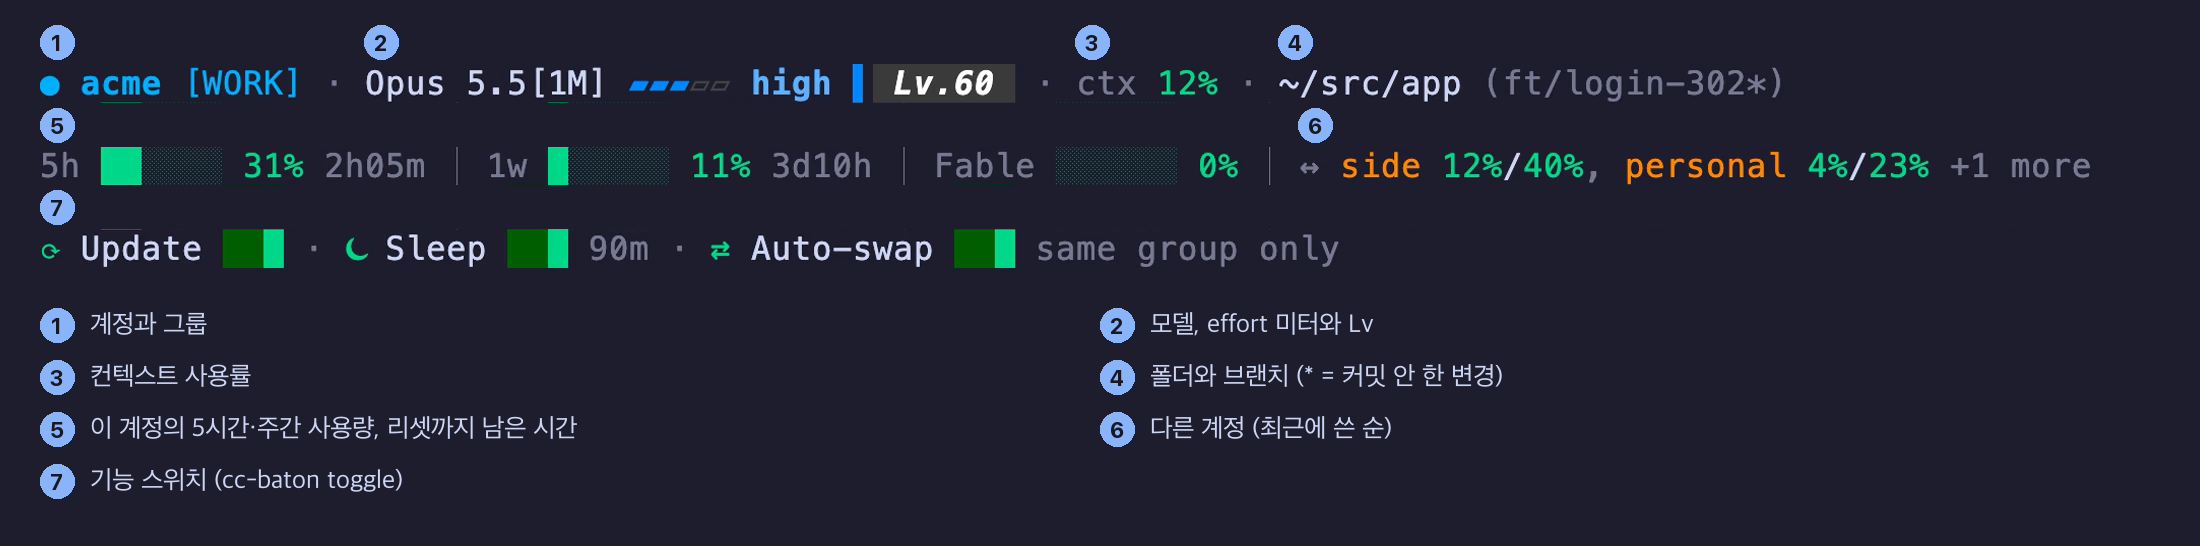
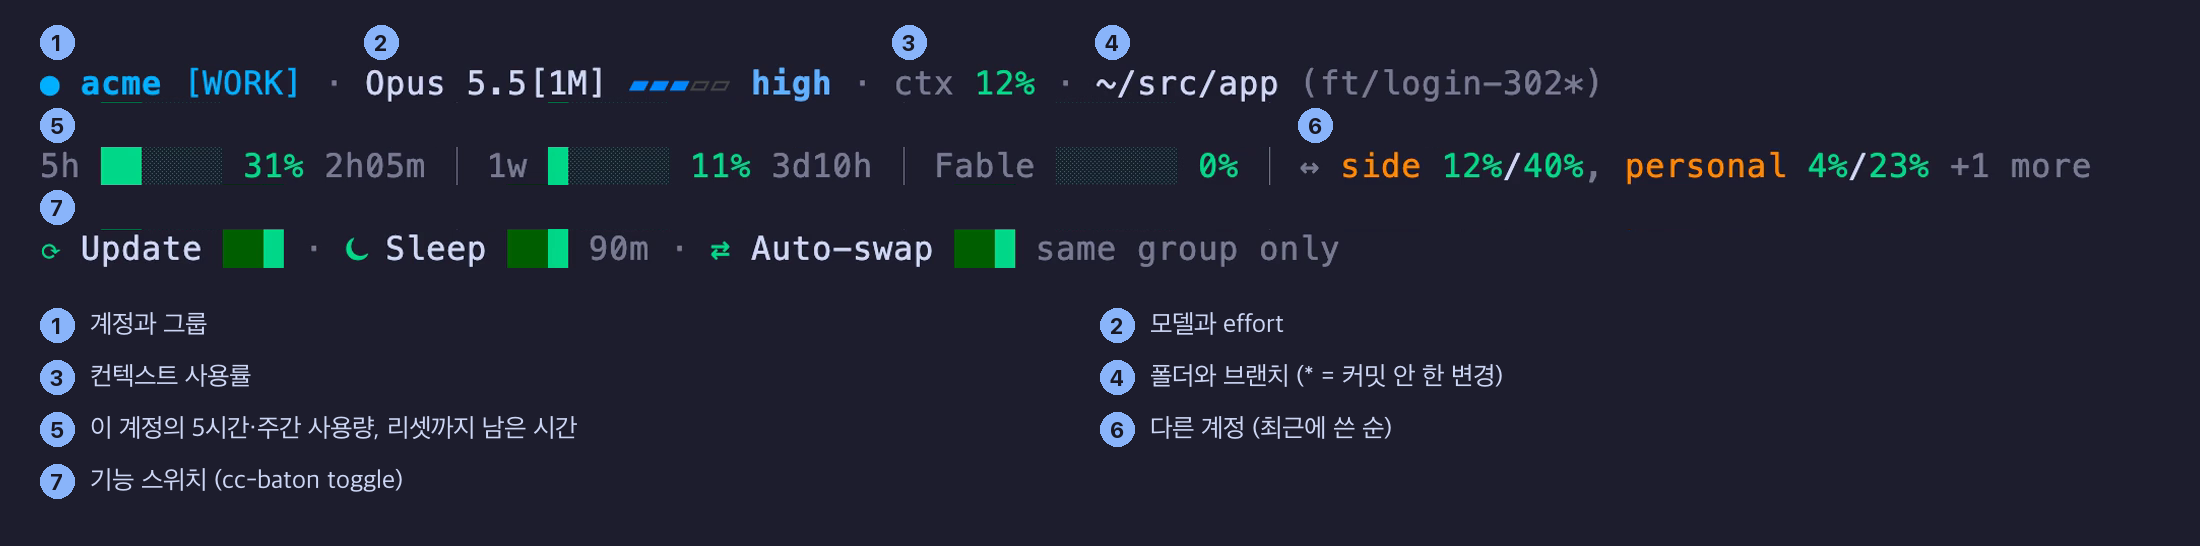
HUD: level chip off by default
The Lv.N chip next to the effort meter is a personal touch, so it only
shows when config.json has "levelChip": true. README images and demo
GIFs are re-recorded without it. Version 0.1.2.

Changed region(s): [[0.3709, 0.0311, 0.8036, 0.1868], [0.5255, 0.5604, 0.6182, 0.6227]]

diff --git a/docs/demo/annotate_hud.py b/docs/demo/annotate_hud.py
@@ -14,14 +14,14 @@ RAW = Image.open(HERE / "hud-raw.png").convert("RGB")
 PAD_X, CHAR = 40, 20.3             # hud.tape: Padding 40, FontSize 32 → 고정폭 글자 한 칸 (실측)
 LINES = [(48, 87), (87, 125), (125, 164)]  # 세 줄의 세로 범위 (2x)
 TEXT = [
-    "● acme [WORK] · Opus 5.5[1M] ▰▰▰▱▱ high ▌ Lv.60  · ctx 12% · ~/src/app (ft/login-302*)",
+    "● acme [WORK] · Opus 5.5[1M] ▰▰▰▱▱ high · ctx 12% · ~/src/app (ft/login-302*)",
     "5h ██░░░░ 31% 2h05m │ 1w █░░░░░ 11% 3d10h │ Fable ░░░░░░ 0% │ ↔ side 12%/40%, personal 4%/23% +1 more",
     "⟳ Update ▮▮▮ · ⏾ Sleep ▮▮▮ 90m · ⇄ Auto-swap ▮▮▮ same group only",
 ]
 # (줄, 그 줄에서 가리킬 글자, 영어, 한국어)
 ITEMS = [
     (0, "●", "Account and group", "계정과 그룹"),
-    (0, "Opus", "Model, effort meter and level", "모델, effort 미터와 Lv"),
+    (0, "Opus", "Model and effort", "모델과 effort"),
     (0, "ctx", "Context used", "컨텍스트 사용률"),
     (0, "~/src", "Folder and branch (* = uncommitted)", "폴더와 브랜치 (* = 커밋 안 한 변경)"),
     (1, "5h", "This account: 5-hour and weekly usage, time to reset", "이 계정의 5시간·주간 사용량, 리셋까지 남은 시간"),

diff --git a/cc_baton/statusline.py b/cc_baton/statusline.py
@@ -185,6 +185,8 @@ def effort_bit(level):
             "max": f"{BOLD}\033[38;5;231mMAX"}[level] + R
     stripe = {"low": "\033[38;5;240m", "medium": "\033[38;5;67m", "high": "\033[38;5;33m",
               "xhigh": tc((255, 135, 0)), "max": tc(hue(shift))}[level]
+    if st.config().get("levelChip") is not True:  # 레벨 칩은 설정에서 켠 사람에게만 (문서에 없는 개인 취향 옵션)
+        return f"{meter} {name}"
     chip = "\033[3;38;5;245;48;5;235m" if level == "low" else "\033[1;3;38;5;231;48;5;237m"
     return f"{meter} {name} {stripe}▌{R}{chip} Lv.{EFFORT_LV[level]} {R}"
 

diff --git a/tests/test_statusline.py b/tests/test_statusline.py
@@ -27,7 +27,9 @@ def render(home, effort=None, columns=140, **env):
 def test_effort_meter_and_level_chip(home, level, cells, lv):
     line1 = plain(render(home, level)[0])
     assert "Opus 5.5[1M] " + "▰" * cells + "▱" * (5 - cells) in line1
-    assert f"▌ {lv} " in line1
+    assert "Lv." not in line1  # 레벨 칩은 기본으로 없다
+    home.set_config(levelChip=True)
+    assert f"▌ {lv} " in plain(render(home, level)[0])
 
 
 def test_unknown_or_missing_effort(home):

diff --git a/cc_baton/__init__.py b/cc_baton/__init__.py
@@ -1,2 +1,2 @@
 """cc-baton: Claude Code 계정 간 대화 원문 그대로 스왑 + statusline HUD."""
-__version__ = "0.1.1"
+__version__ = "0.1.2"

diff --git a/README.md b/README.md
@@ -22,7 +22,7 @@ Your team seat and your personal plan are separate Claude accounts, and a conver
 
 ```sh
 command -v uv >/dev/null || { curl -LsSf https://astral.sh/uv/install.sh | sh && . "$HOME/.local/bin/env"; }
-uv tool install --python 3.12 git+https://github.com/juunghyun/cc-baton@v0.1.1 && ~/.local/bin/cc-baton install
+uv tool install --python 3.12 git+https://github.com/juunghyun/cc-baton@v0.1.2 && ~/.local/bin/cc-baton install
 ```
 
 Open a new terminal and run **`baton`** (a zsh function; macOS uses zsh by default). From now on, start Claude Code with `baton` instead of `claude`. The first run asks a few questions (language, account groups and short names, HUD, sleep, auto-swap, usage refresh, permission prompts), then shows the account picker. Accounts live in [claude-swap](https://github.com/realiti4/claude-swap), which comes bundled: log in to Claude Code and run `cswap add` for each account. With a single account you still get the HUD and sleep.

diff --git a/README.ko.md b/README.ko.md
@@ -22,7 +22,7 @@
 
 ```sh
 command -v uv >/dev/null || { curl -LsSf https://astral.sh/uv/install.sh | sh && . "$HOME/.local/bin/env"; }
-uv tool install --python 3.12 git+https://github.com/juunghyun/cc-baton@v0.1.1 && ~/.local/bin/cc-baton install
+uv tool install --python 3.12 git+https://github.com/juunghyun/cc-baton@v0.1.2 && ~/.local/bin/cc-baton install
 ```
 
 새 터미널을 열고 **`baton`** 을 실행하세요(zsh 함수이며, macOS 기본 셸이 zsh 입니다). 앞으로 Claude Code 는 `claude` 대신 `baton` 으로 여세요. 처음 실행하면 몇 가지(언어, 계정 그룹과 짧은 이름, HUD, 절전, 자동 스왑, 사용량 갱신, 권한 확인)를 묻고 계정 피커가 뜹니다. 계정은 함께 설치되는 [claude-swap](https://github.com/realiti4/claude-swap) 에 등록합니다. Claude Code 에 로그인한 상태에서 계정마다 `cswap add` 를 실행하세요. 계정이 하나여도 HUD 와 절전은 쓸 수 있습니다.
